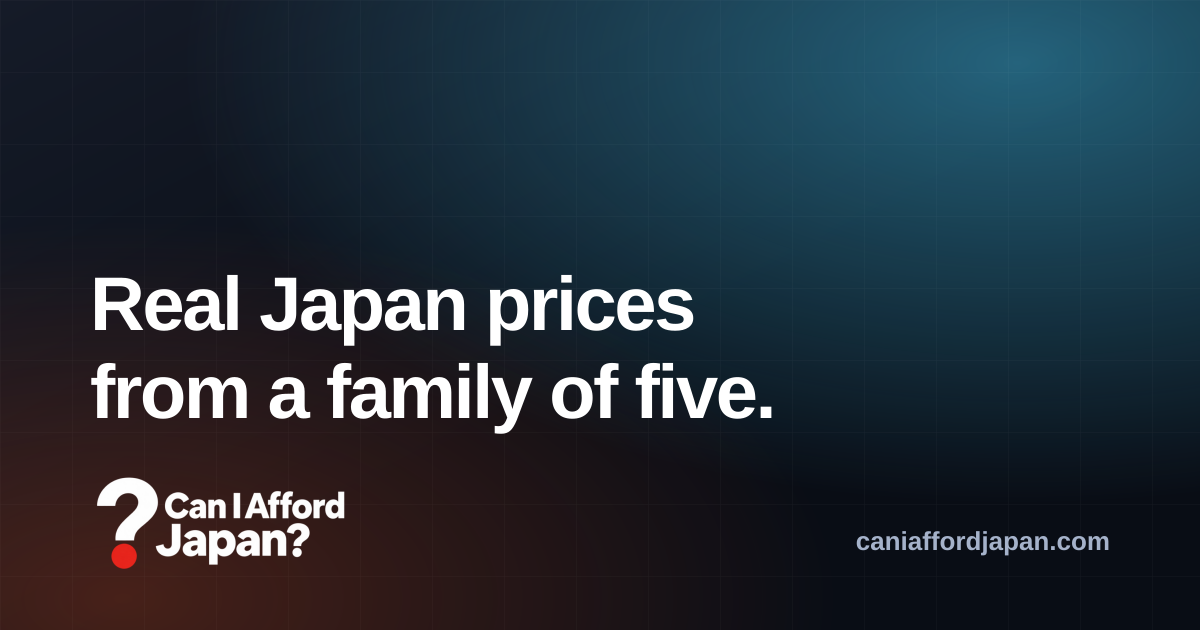
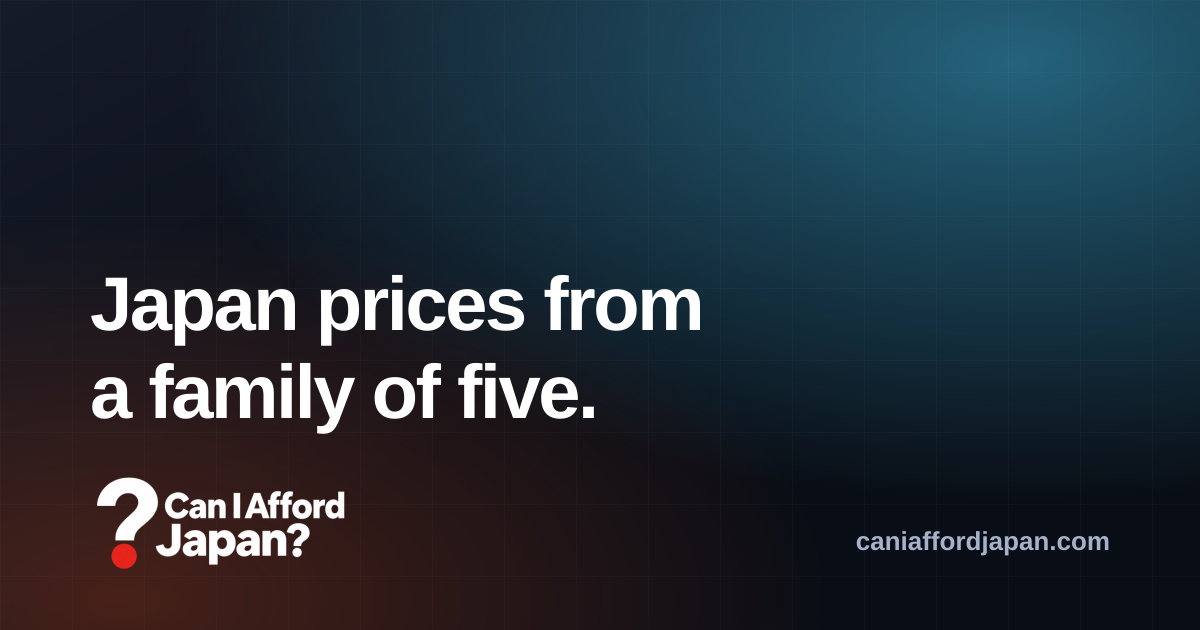
Weekly audit: cut real/really from site-wide chrome, not just posts
house.mjs's crutch-real rule only scans src/data/posts/**/*.mdx, so
the same word survived in every other reader-facing surface: the
site's own <title>/meta description and OG alt text, the generated
default OG share-card headline (regenerated via pnpm og), the footer
tagline on every page, the KlookCodeBox disclosure shown on every
Klook post, the blog archive's meta description, and llms.txt's
/about/ line. All fixed and verified in the built output.

Also audited for the "'s own" disclaiming pattern across the same
surfaces (clean) and ran a full internal-link check against the built
site (zero genuine broken links; initial 230 hits were a script bug -
client-side /search/ routes and non-HTML static assets, not pages).

Claude-Session: https://claude.ai/code/session_01Jon3C3k319V7LtoJGtgDxP

Changed region(s): [[0.0617, 0.4222, 0.5858, 0.5429], [0.0617, 0.573, 0.6475, 0.6937]]

diff --git a/src/config/siteData.json.ts b/src/config/siteData.json.ts
@@ -5,9 +5,9 @@ import type { SiteDataProps } from "./types/configDataTypes";
 // l'utilisateur edite, et le seul a editer pour changer de marque.
 const siteData: SiteDataProps = {
   name: "Can I Afford Japan?",
-  title: "Can I Afford Japan? - Real prices for an affordable Japan trip",
+  title: "Can I Afford Japan? - Prices for an affordable Japan trip",
   description:
-    "Honest, well-researched posts on what things really cost in Japan: temples, food, transit, hotels, activities, and day trips, from the Clarkson family's trips and real research in between. Real pricing, never invented.",
+    "Honest, well-researched posts on what things cost in Japan: temples, food, transit, hotels, activities, and day trips, from the Clarkson family's trips and research in between. Never invented pricing.",
   useViewTransitions: true,
 
   demoNotice: "",
@@ -20,7 +20,7 @@ const siteData: SiteDataProps = {
 
   defaultImage: {
     src: "/og/default.png",
-    alt: "Can I Afford Japan? - real trip photos and honest prices from Japan",
+    alt: "Can I Afford Japan? - trip photos and honest prices from Japan",
   },
 };
 

diff --git a/src/pages/llms.txt.ts b/src/pages/llms.txt.ts
@@ -33,7 +33,7 @@ export const GET: APIRoute = async ({ site, url }) => {
     ["/blog/", "every published post, newest first, paginated nine to a page"],
     ["/topics/", "the topic index; each topic has a paginated archive"],
     ["/authors/", "the family members who write here, one page per byline"],
-    ["/about/", "who the Clarkson family is and why real prices are published"],
+    ["/about/", "who the Clarkson family is and why honest prices are published"],
     ["/contact/", "how to reach the family"],
     ["/legal/", "privacy, terms, and affiliate disclosure in one page, plus how to reach us"],
   ];

diff --git a/src/i18n/ui/en/reading.ts b/src/i18n/ui/en/reading.ts
@@ -59,7 +59,7 @@ export const enReading = {
     /** The archive's <title> in search results; metaTitle stays the breadcrumb label. */
     seoTitle: "Japan Trip Costs: Every Post",
     metaDescription:
-      "Every post published on Can I Afford Japan?, newest first: real prices for temples, food, transit, and day trips in Japan.",
+      "Every post published on Can I Afford Japan?, newest first: prices for temples, food, transit, and day trips in Japan.",
     eyebrow: "Archive",
     title: "All posts",
     accent: "",

diff --git a/src/i18n/ui/en/chrome.ts b/src/i18n/ui/en/chrome.ts
@@ -38,7 +38,7 @@ export const enChrome = {
   // qui aligne six colonnes copie un SaaS et sert d'egout a liens morts.
   footer: {
     tagline:
-      "Real Japan prices from the Clarkson family's trips, plus researched hotels, activities and gear.",
+      "Japan prices from the Clarkson family's trips, plus researched hotels, activities and gear.",
     colRead: "Read",
     colStudio: "About",
     colLegal: "Legal",

diff --git a/docs/site-audit.md b/docs/site-audit.md
@@ -88,55 +88,9 @@ The 2026-10-29/10-30 seed-item entries and the 2026-10-31 "First real
 firing" that resolved them were moved to `docs/site-audit-archive-1.md`
 (2026-11-28) to stay under the house-lint 400-line cap.
 
-- **Second real firing, 2026-11-07.** Checked `docs/search-console/`
-  first for a fresher export, none since 2026-10-30, nothing new to
-  analyze from that source this week. Checked `src/pages/robots.txt.ts`
-  and `src/pages/llms.txt.ts`, both fully dynamic (robots.txt derives
-  its sitemap URL from site config, llms.txt pulls topics/posts live
-  from content collections), confirmed no staleness risk there, no
-  changes needed. Ran a sitewide internal-link check (every `/blog/
-  <slug>/` reference in every post's body against the real set of
-  published slugs): zero broken links found.
-
-  Continued the "actually"/"genuinely" sweep from the first firing,
-  this time at title/description scope rather than just topic
-  descriptions: a `grep` across every post's frontmatter turned up a
-  much bigger pattern than last week's, 27 published posts using
-  "Actually" as a literal repeated title template ("What X Actually
-  Costs," "Is X Actually Worth It," etc.), clearly a pre-dates-the-
-  house-rule content pattern from the site's early buildout rather
-  than isolated slips. Fixed all 27 (titles and/or descriptions,
-  exact list in the commit), preserving every real fact and number,
-  only removing the filler word, confirmed via a second `grep` pass
-  (zero remaining) and a built-HTML `<title>` check. Also found the
-  same word in the `esim-vs-sim-vs-pocket-wifi-japan` post's title,
-  description, and closing line while reviewing it for FAQ potential,
-  fixed there too. Did not touch the home hero title, same reasoning
-  as the first firing's flag still holds.
-
-  **Flagged, not actioned this firing:** a `grep` for "actually"/
-  "genuinely" in post *bodies* (not just frontmatter) found 38 posts
-  with at least one instance, a real, larger tail of the same pattern.
-  Didn't attempt all 38 in one sitting, body-prose fixes need real
-  per-sentence judgment rather than a safe mechanical string swap the
-  way the title/description fixes were. Worth the next firing's first
-  pass, or splitting across a few firings rather than rushing it.
-
-  Wired up `faqPage()` on two more posts with genuine, naturally-
-  occurring Q&A content (now 3 total, up from the 1 from the first
-  firing): `japan-plug-adapter-voltage-converter-guide` (do-I-need-an-
-  adapter is the post's entire premise) and
-  `esim-vs-sim-vs-pocket-wifi-japan` (eSIM-vs-SIM-vs-pocket-wifi is a
-  real, common traveler question this post already answers in full).
-  Both got a frontmatter `faq` array and a matching visible "Quick
-  answers" section, every answer restating a fact already stated
-  elsewhere in that same post, nothing invented. Confirmed via `grep`
-  on the built HTML that `FAQPage` JSON-LD renders only on the three
-  opted-in posts.
-
-  All changes: `pnpm build`/`pnpm check`/`node scripts/house.mjs`/
-  `pnpm test` all clean. Pushed in one commit (29 files: 27 title/
-  description fixes, 2 FAQ wire-ups).
+- Moved the 2026-11-07 "Second real firing" entry out to
+  `docs/site-audit-archive-1.md` to stay under the house-lint 400-line
+  cap (that archive file is now at 137 lines).
 - **Off-cycle fix, 2026-11-08, prompted directly by the site owner.**
   The owner spot-checked `zenni-glasses-before-trip-vs-japan-optician`
   and found the real Zenni affiliate link effectively invisible: a
@@ -381,3 +335,29 @@ firing" that resolved them were moved to `docs/site-audit-archive-1.md`
   spot-checked several fixes, including the three renamed cover images,
   directly in the built `dist/blog/<slug>/index.html` output. No
   priority item left behind for this backlog.
+- **Weekly audit, 2026-11-28.** With the real/really backlog closed
+  above, extended the same case-insensitive scan beyond posts to every
+  other reader-facing surface: topic descriptions (clean, 0 hits),
+  `/legal/`, `/about/`, i18n page strings (clean apart from one code
+  comment, not reader-facing), and site chrome. Found and fixed 6
+  genuine, high-visibility hits `scripts/house.mjs` doesn't scan
+  (scoped to post `.mdx` only): the site's own `<title>`/meta
+  description and OG image alt text (`src/config/siteData.json.ts`),
+  the generated default OG share-card's headline text (`scripts/
+  og.mjs`, regenerated via `pnpm og` and visually confirmed), the
+  footer tagline shown on every page (`src/i18n/ui/en/chrome.ts`), the
+  `KlookCodeBox` component's disclosure text shown on every Klook post
+  (`src/components/Post/KlookCodeBox.astro`), the all-posts archive's
+  meta description (`src/i18n/ui/en/reading.ts`), and `llms.txt`'s
+  `/about/` line (`src/pages/llms.txt.ts`). Checked the same surfaces
+  for the `'s own` disclaiming pattern too: all clean, no hits outside
+  code comments. Also checked for broken internal links across the
+  full built `dist/` output via a script comparing every `href` against
+  actual generated pages: zero genuine broken links (the 230 flagged
+  hits were all false positives from an incomplete first pass, either
+  intentional client-side `/search/?q=...` routes already disallowed
+  in `robots.txt`, or static assets like fonts/webmanifest my script
+  didn't check for outside `.html` files; confirmed each category
+  actually resolves). `pnpm build` (235 pages), `pnpm check` (0
+  errors), and `node scripts/house.mjs` ("Aucune violation") all clean
+  before this commit.

diff --git a/docs/site-audit-archive-1.md b/docs/site-audit-archive-1.md
@@ -86,3 +86,52 @@ current scope/process and the active log.
   All changes: `pnpm build`/`pnpm check` clean, `node scripts/house.mjs`
   clean, `pnpm test` clean (touched `content.config.ts` and the blog
   template). Pushed across three commits.
+- **Second real firing, 2026-11-07.** Checked `docs/search-console/`
+  first for a fresher export, none since 2026-10-30, nothing new to
+  analyze from that source this week. Checked `src/pages/robots.txt.ts`
+  and `src/pages/llms.txt.ts`, both fully dynamic (robots.txt derives
+  its sitemap URL from site config, llms.txt pulls topics/posts live
+  from content collections), confirmed no staleness risk there, no
+  changes needed. Ran a sitewide internal-link check (every `/blog/
+  <slug>/` reference in every post's body against the real set of
+  published slugs): zero broken links found.
+
+  Continued the "actually"/"genuinely" sweep from the first firing,
+  this time at title/description scope rather than just topic
+  descriptions: a `grep` across every post's frontmatter turned up a
+  much bigger pattern than last week's, 27 published posts using
+  "Actually" as a literal repeated title template ("What X Actually
+  Costs," "Is X Actually Worth It," etc.), clearly a pre-dates-the-
+  house-rule content pattern from the site's early buildout rather
+  than isolated slips. Fixed all 27 (titles and/or descriptions,
+  exact list in the commit), preserving every real fact and number,
+  only removing the filler word, confirmed via a second `grep` pass
+  (zero remaining) and a built-HTML `<title>` check. Also found the
+  same word in the `esim-vs-sim-vs-pocket-wifi-japan` post's title,
+  description, and closing line while reviewing it for FAQ potential,
+  fixed there too. Did not touch the home hero title, same reasoning
+  as the first firing's flag still holds.
+
+  **Flagged, not actioned this firing:** a `grep` for "actually"/
+  "genuinely" in post *bodies* (not just frontmatter) found 38 posts
+  with at least one instance, a real, larger tail of the same pattern.
+  Didn't attempt all 38 in one sitting, body-prose fixes need real
+  per-sentence judgment rather than a safe mechanical string swap the
+  way the title/description fixes were. Worth the next firing's first
+  pass, or splitting across a few firings rather than rushing it.
+
+  Wired up `faqPage()` on two more posts with genuine, naturally-
+  occurring Q&A content (now 3 total, up from the 1 from the first
+  firing): `japan-plug-adapter-voltage-converter-guide` (do-I-need-an-
+  adapter is the post's entire premise) and
+  `esim-vs-sim-vs-pocket-wifi-japan` (eSIM-vs-SIM-vs-pocket-wifi is a
+  real, common traveler question this post already answers in full).
+  Both got a frontmatter `faq` array and a matching visible "Quick
+  answers" section, every answer restating a fact already stated
+  elsewhere in that same post, nothing invented. Confirmed via `grep`
+  on the built HTML that `FAQPage` JSON-LD renders only on the three
+  opted-in posts.
+
+  All changes: `pnpm build`/`pnpm check`/`node scripts/house.mjs`/
+  `pnpm test` all clean. Pushed in one commit (29 files: 27 title/
+  description fixes, 2 FAQ wire-ups).
